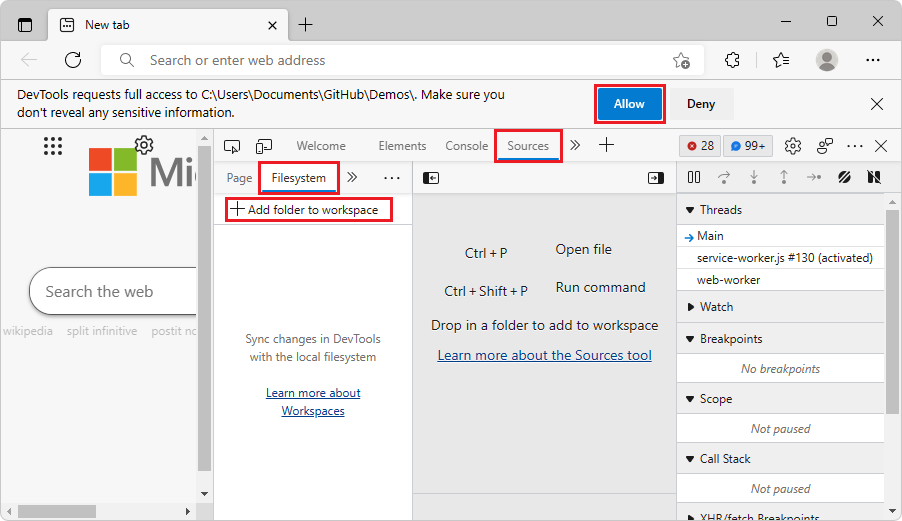
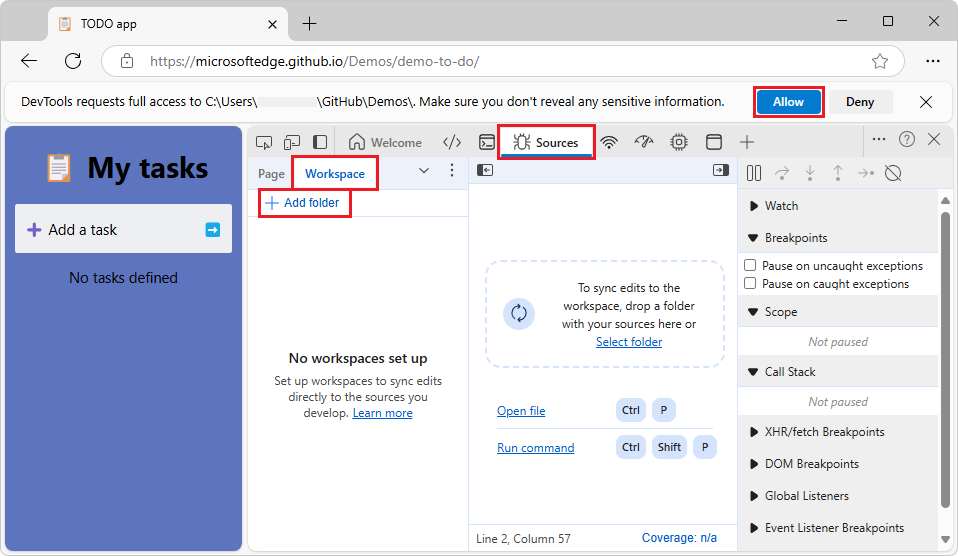
show Workspace tab

diff --git a/microsoft-edge/devtools-guide-chromium/sample-code/sample-code.md b/microsoft-edge/devtools-guide-chromium/sample-code/sample-code.md
@@ -226,14 +226,14 @@ See also:
 
 To use this section, first [Download or clone the Demos repo](#download-or-clone-the-demos-repo).
 
-To edit local files in the **Sources** tool, you might need to first click the **Allow** button to grant read/write access.  To do that, follow the steps in [Opening a folder from the Filesystem (Workspace) tab in the Sources tool](#opening-a-folder-from-the-filesystem-workspace-tab-in-the-sources-tool) below.
+To edit local files in the **Sources** tool, you might need to first click the **Allow** button to grant read/write access.  To do that, follow the steps in [Opening a folder from the Workspace tab in the Sources tool](#opening-a-folder-from-the-workspace-tab-in-the-sources-tool) below.
 
 See also:
 * [Approaches compared](../../visual-studio-code/microsoft-edge-devtools-extension.md#approaches-compared) in _Microsoft Edge DevTools extension for Visual Studio Code_.  Summarizes and compares several options for editing webpage files.
 
 
 <!-- ------------------------------ -->
-#### Opening a folder from the Filesystem (Workspace) tab in the Sources tool
+#### Opening a folder from the Workspace tab in the Sources tool
 
 After downloading or cloning the Demos repo:
 
@@ -253,20 +253,30 @@ After downloading or cloning the Demos repo:
 
 1. Above DevTools, your're prompted "DevTools requests full access to (directory)".  Click the **Allow** button:
 
-   ![DevTools requests access to add a folder to a workspace in the Filesystem tab](./sample-code-images/devtools-requests-access.png)
+   ![DevTools requests access to add a folder to the Workspace](./sample-code-images/devtools-requests-access.png)
+
+There are several degrees of functionality and setup for experimenting with the Demos repo by using DevTools' **Sources** tool or another editor such as Visual Studio Code:
+
+* Use the **Page** tab and don't run localhost.
+* Use the **Workspace** tab and don't run localhost.
+* Use the **Overrides** tab and don't run localhost.
+* Use the **Page** tab and run localhost.
+* Use the **Workspace** tab and run localhost.  Full functionality for saving changes made in DevTools, including HTML, and refreshing them on your localhost server, to persist changes across refreshes.
+* Use the **Overrides** tab and run localhost.
+* Use [Microsoft Edge DevTools extension for Visual Studio Code](../../visual-studio-code/microsoft-edge-devtools-extension.md) and run localhost.
 
 To edit the files, see the editing steps in the next section.
 
-
 See also:
 * [Edit and save files in a workspace](../workspaces/index.md) - to open a local folder in the **Sources** tool of DevTools in the browser.
+   * [Create a directory for the localhost server to use](../workspaces/index.md#create-a-directory-for-the-localhost-server-to-use) in _Edit and save files in a workspace_ - to run your modified demos on a localhost web server.
 * [Select a local Workspace, to use DevTools to edit files and save changes to disk](../sources/index.md#select-a-local-workspace-to-use-devtools-to-edit-files-and-save-changes-to-disk) in _Sources tool overview_.
 
 
 <!-- ------------------------------ -->
 #### Opening a local HTML file from the browser's File Open dialog and editing it from the Page tab of the Sources tool
 
-To edit files in the **Sources** tool, before doing the steps in this section, you might need to click the **Allow** button to grant read/write access by following the steps in [Opening a folder from the Filesystem (Workspace) tab in the Sources tool](#opening-a-folder-from-the-filesystem-workspace-tab-in-the-sources-tool) above.
+To edit files in the **Sources** tool, before doing the steps in this section, you might need to click the **Allow** button to grant read/write access by following the steps in [Opening a folder from the Workspace tab in the Sources tool](#opening-a-folder-from-the-workspace-tab-in-the-sources-tool) above.
 
 
 To open an `.html` file and edit it:
@@ -291,7 +301,7 @@ To open an `.html` file and edit it:
    <h1>📋 My modified tasks</h1>
    ```
 
-   If editing isn't enabled, click the **Allow** button to grant read/write access to the folder by doing the steps in [Opening a folder from the Filesystem (Workspace) tab in the Sources tool](#opening-a-folder-from-the-filesystem-workspace-tab-in-the-sources-tool) above.
+   If editing isn't enabled, click the **Allow** button to grant read/write access to the folder by doing the steps in [Opening a folder from the Workspace tab in the Sources tool](#opening-a-folder-from-the-workspace-tab-in-the-sources-tool) above.
 
    The change is displayed in the **Changes** tool in the **Quick View** panel, and an asterisk is added to the file name in the **index.html** tab in the **Sources** tool:
 

diff --git a/microsoft-edge/devtools-guide-chromium/sources/index.md b/microsoft-edge/devtools-guide-chromium/sources/index.md
@@ -167,7 +167,7 @@ Use the **Workspace** tab of the **Navigator** pane to add files to a Workspace,
 <!-- Green dots do not appear anymore. -->
 <!-- A file that's in a Workspace is indicated by a green dot next to the file name, throughout DevTools. -->
 
-![The Filesystem tab, for a Workspace](./index-images/sources-workspace-tab.png)
+![The Workspace tab in the Sources tool](./index-images/sources-workspace-tab.png)
 <!--
 per section [The basic approach to using a debugger](#the-basic-approach-to-using-a-debugger) below:
 1. [Clone the Demos repo](../sample-code/sample-code.md#clone-the-demos-repo) in _Sample code for DevTools_.
